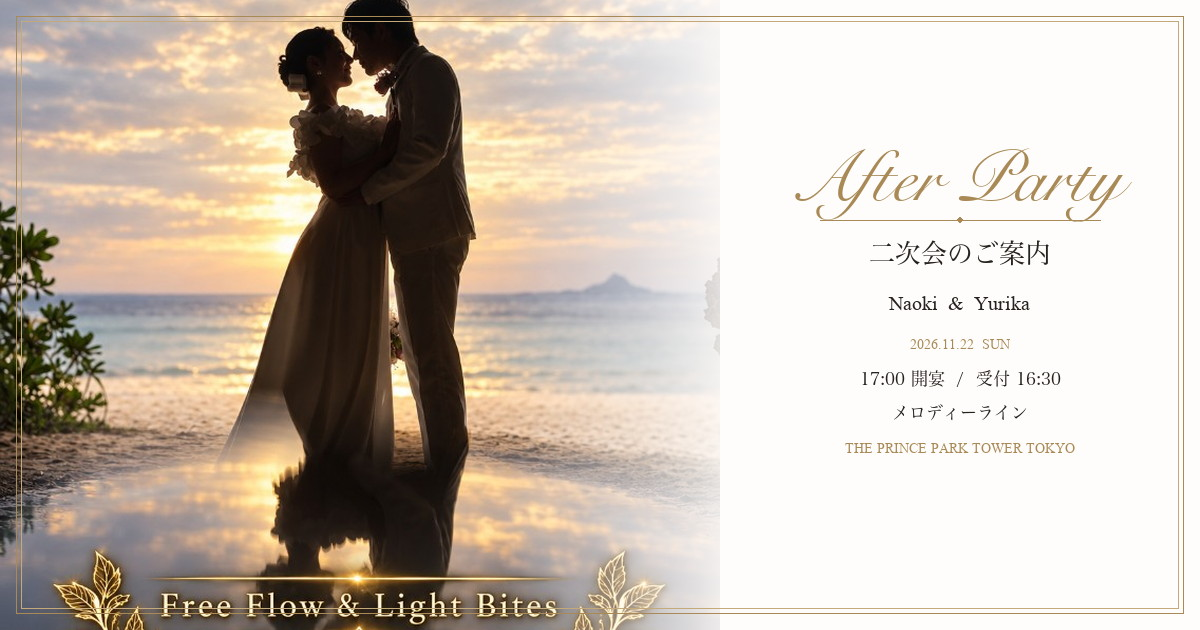
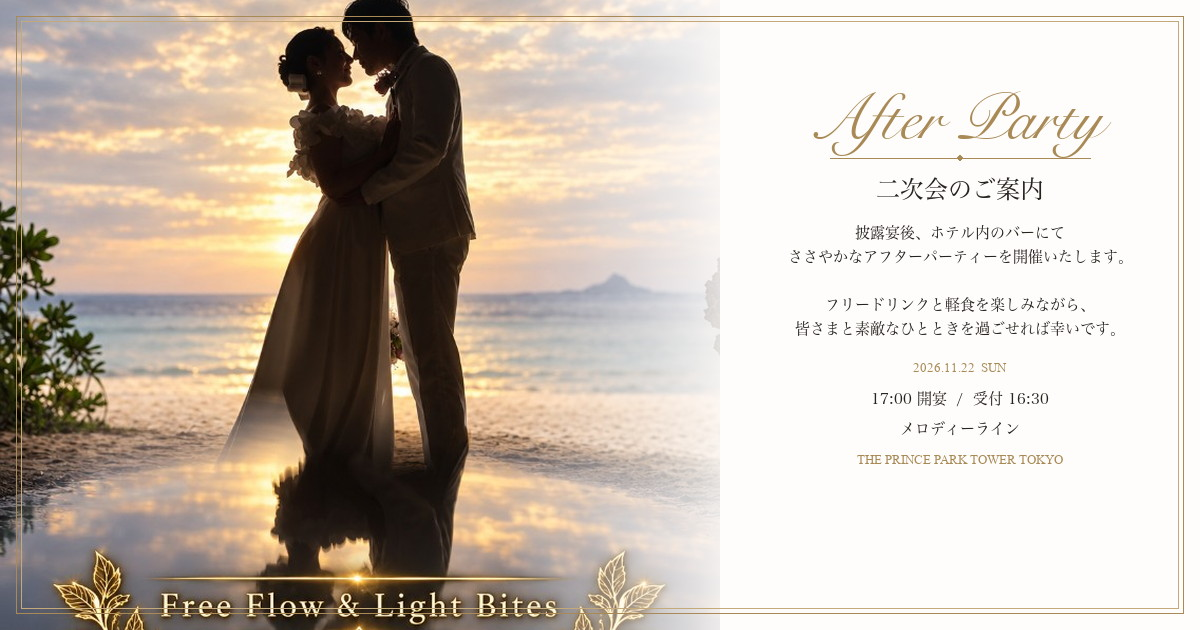
Clarify the after-party invitation, start time, and venue link.

Changed region(s): [[0.6475, 0.1508, 0.9558, 0.4222], [0.6475, 0.4524, 0.925, 0.754]]

diff --git a/after-party.html b/after-party.html
@@ -15,7 +15,7 @@
 <meta property="og:type" content="website">
 <meta property="og:url" content="https://wedding.arlys-japan.com/after-party.html">
 <meta property="og:site_name" content="After Party｜Naoki &amp; Yurika">
-<meta property="og:image" content="https://wedding.arlys-japan.com/assets/img/og-after.jpg">
+<meta property="og:image" content="https://wedding.arlys-japan.com/assets/img/og-after.jpg?v=2">
 <meta property="og:image:width" content="1200">
 <meta property="og:image:height" content="630">
 <meta property="og:image:type" content="image/jpeg">
@@ -23,11 +23,11 @@
 <meta name="twitter:card" content="summary_large_image">
 <meta name="twitter:title" content="二次会のご案内｜河本直樹・磯野有梨花">
 <meta name="twitter:description" content="2026年11月22日（日）17:00開宴・16:30受付。メロディーラインにて。">
-<meta name="twitter:image" content="https://wedding.arlys-japan.com/assets/img/og-after.jpg">
+<meta name="twitter:image" content="https://wedding.arlys-japan.com/assets/img/og-after.jpg?v=2">
 <link rel="preconnect" href="https://fonts.googleapis.com">
 <link rel="preconnect" href="https://fonts.gstatic.com" crossorigin>
 <link href="https://fonts.googleapis.com/css2?family=Cormorant+Garamond:ital,wght@0,300;0,400;0,500;0,600;1,300;1,400&family=Great+Vibes&family=Noto+Serif+JP:wght@200;300;400;500&display=swap" rel="stylesheet">
-<link rel="stylesheet" href="assets/css/style.css?v=20260927z">
+<link rel="stylesheet" href="assets/css/style.css?v=20260927ad">
 </head>
 <body class="page-after">
 
@@ -56,9 +56,13 @@
       <span class="party">After Party</span>
       <span class="partyjp">二次会のご案内</span>
     </h1>
-    <p class="nm en">Naoki<i>&amp;</i>Yurika</p>
+    <p class="invite">披露宴後、ホテル内のバーにて<br>ささやかなアフターパーティーを開催いたします。</p>
+    <p class="invite">フリードリンクと軽食を楽しみながら、<br>皆さまと素敵なひとときを過ごせれば幸いです。</p>
     <p class="date en">2026.11.22<span>SUN</span></p>
-    <p class="time"><b>17:00</b><span>開宴　受付 16:30</span></p>
+    <p class="when">
+      <span><b>17:00</b>開演</span>
+      <span class="sub"><b>16:30</b>受付開始</span>
+    </p>
     <p class="place">
       <a href="https://www.princehotels.co.jp/parktower/restaurant/melodyline/" target="_blank" rel="noopener">メロディーライン</a>
       <span class="plain">1F</span><br>

diff --git a/assets/css/style.css b/assets/css/style.css
@@ -568,15 +568,18 @@ picture{display:block}
 .page-after .party{display:block;font-family:"Great Vibes",cursive;font-weight:400;
   font-size:46px;line-height:1;color:#3a3228}
 .page-after .partyjp{display:block;margin-top:2px;font-size:15px;letter-spacing:.28em;text-indent:.28em;color:var(--gold)}
-.page-after .sheet .nm{margin-top:2px;font-size:16px;letter-spacing:.14em}
-.page-after .sheet .date{margin-top:2px;font-size:13px;letter-spacing:.18em;color:var(--ink2)}
+.page-after .sheet .invite{margin:14px 0 0;font-size:13px;letter-spacing:.06em;line-height:1.95}
+.page-after .sheet .invite + .invite{margin-top:12px}
+.page-after .sheet .date{margin-top:16px;font-size:13px;letter-spacing:.18em;color:var(--ink2)}
 .page-after .sheet .date span{margin-left:.7em;letter-spacing:.2em}
-.page-after .sheet .time{margin-top:8px;line-height:1}
-.page-after .sheet .time b{font-family:"Snell Digits","Cormorant Garamond",serif;font-weight:400;
-  font-size:40px;color:var(--gold);letter-spacing:.04em}
-.page-after .sheet .time span{display:block;margin-top:4px;font-size:12px;letter-spacing:.16em;color:var(--ink)}
-.page-after .sheet .place{margin-top:8px;font-size:14px;line-height:1.65;letter-spacing:.08em}
-.page-after .sheet .place a{color:inherit;border-bottom:1px solid rgba(169,138,87,.55)}
+.page-after .when{margin-top:12px;display:flex;flex-direction:column;align-items:center;gap:8px}
+.page-after .when span{display:flex;align-items:baseline;gap:10px;font-size:14px;letter-spacing:.14em}
+.page-after .when b{font-family:"Snell Digits","Cormorant Garamond",serif;font-weight:400;
+  font-size:34px;color:var(--gold);letter-spacing:.04em;font-style:normal}
+.page-after .when .sub{font-size:12px;letter-spacing:.12em;color:var(--ink2)}
+.page-after .when .sub b{font-size:22px}
+.page-after .sheet .place{margin-top:10px;font-size:14px;line-height:1.65;letter-spacing:.08em}
+.page-after .sheet .place a{color:#8d6b32;border-bottom:1px solid #8d6b32}
 .page-after .sheet .place .plain{margin-left:.35em}
 .page-after .sheet .price{margin-top:6px;font-size:13px;letter-spacing:.12em}
 .page-after .sheet .price b{font-family:"Snell Digits","Cormorant Garamond",serif;font-weight:400;
